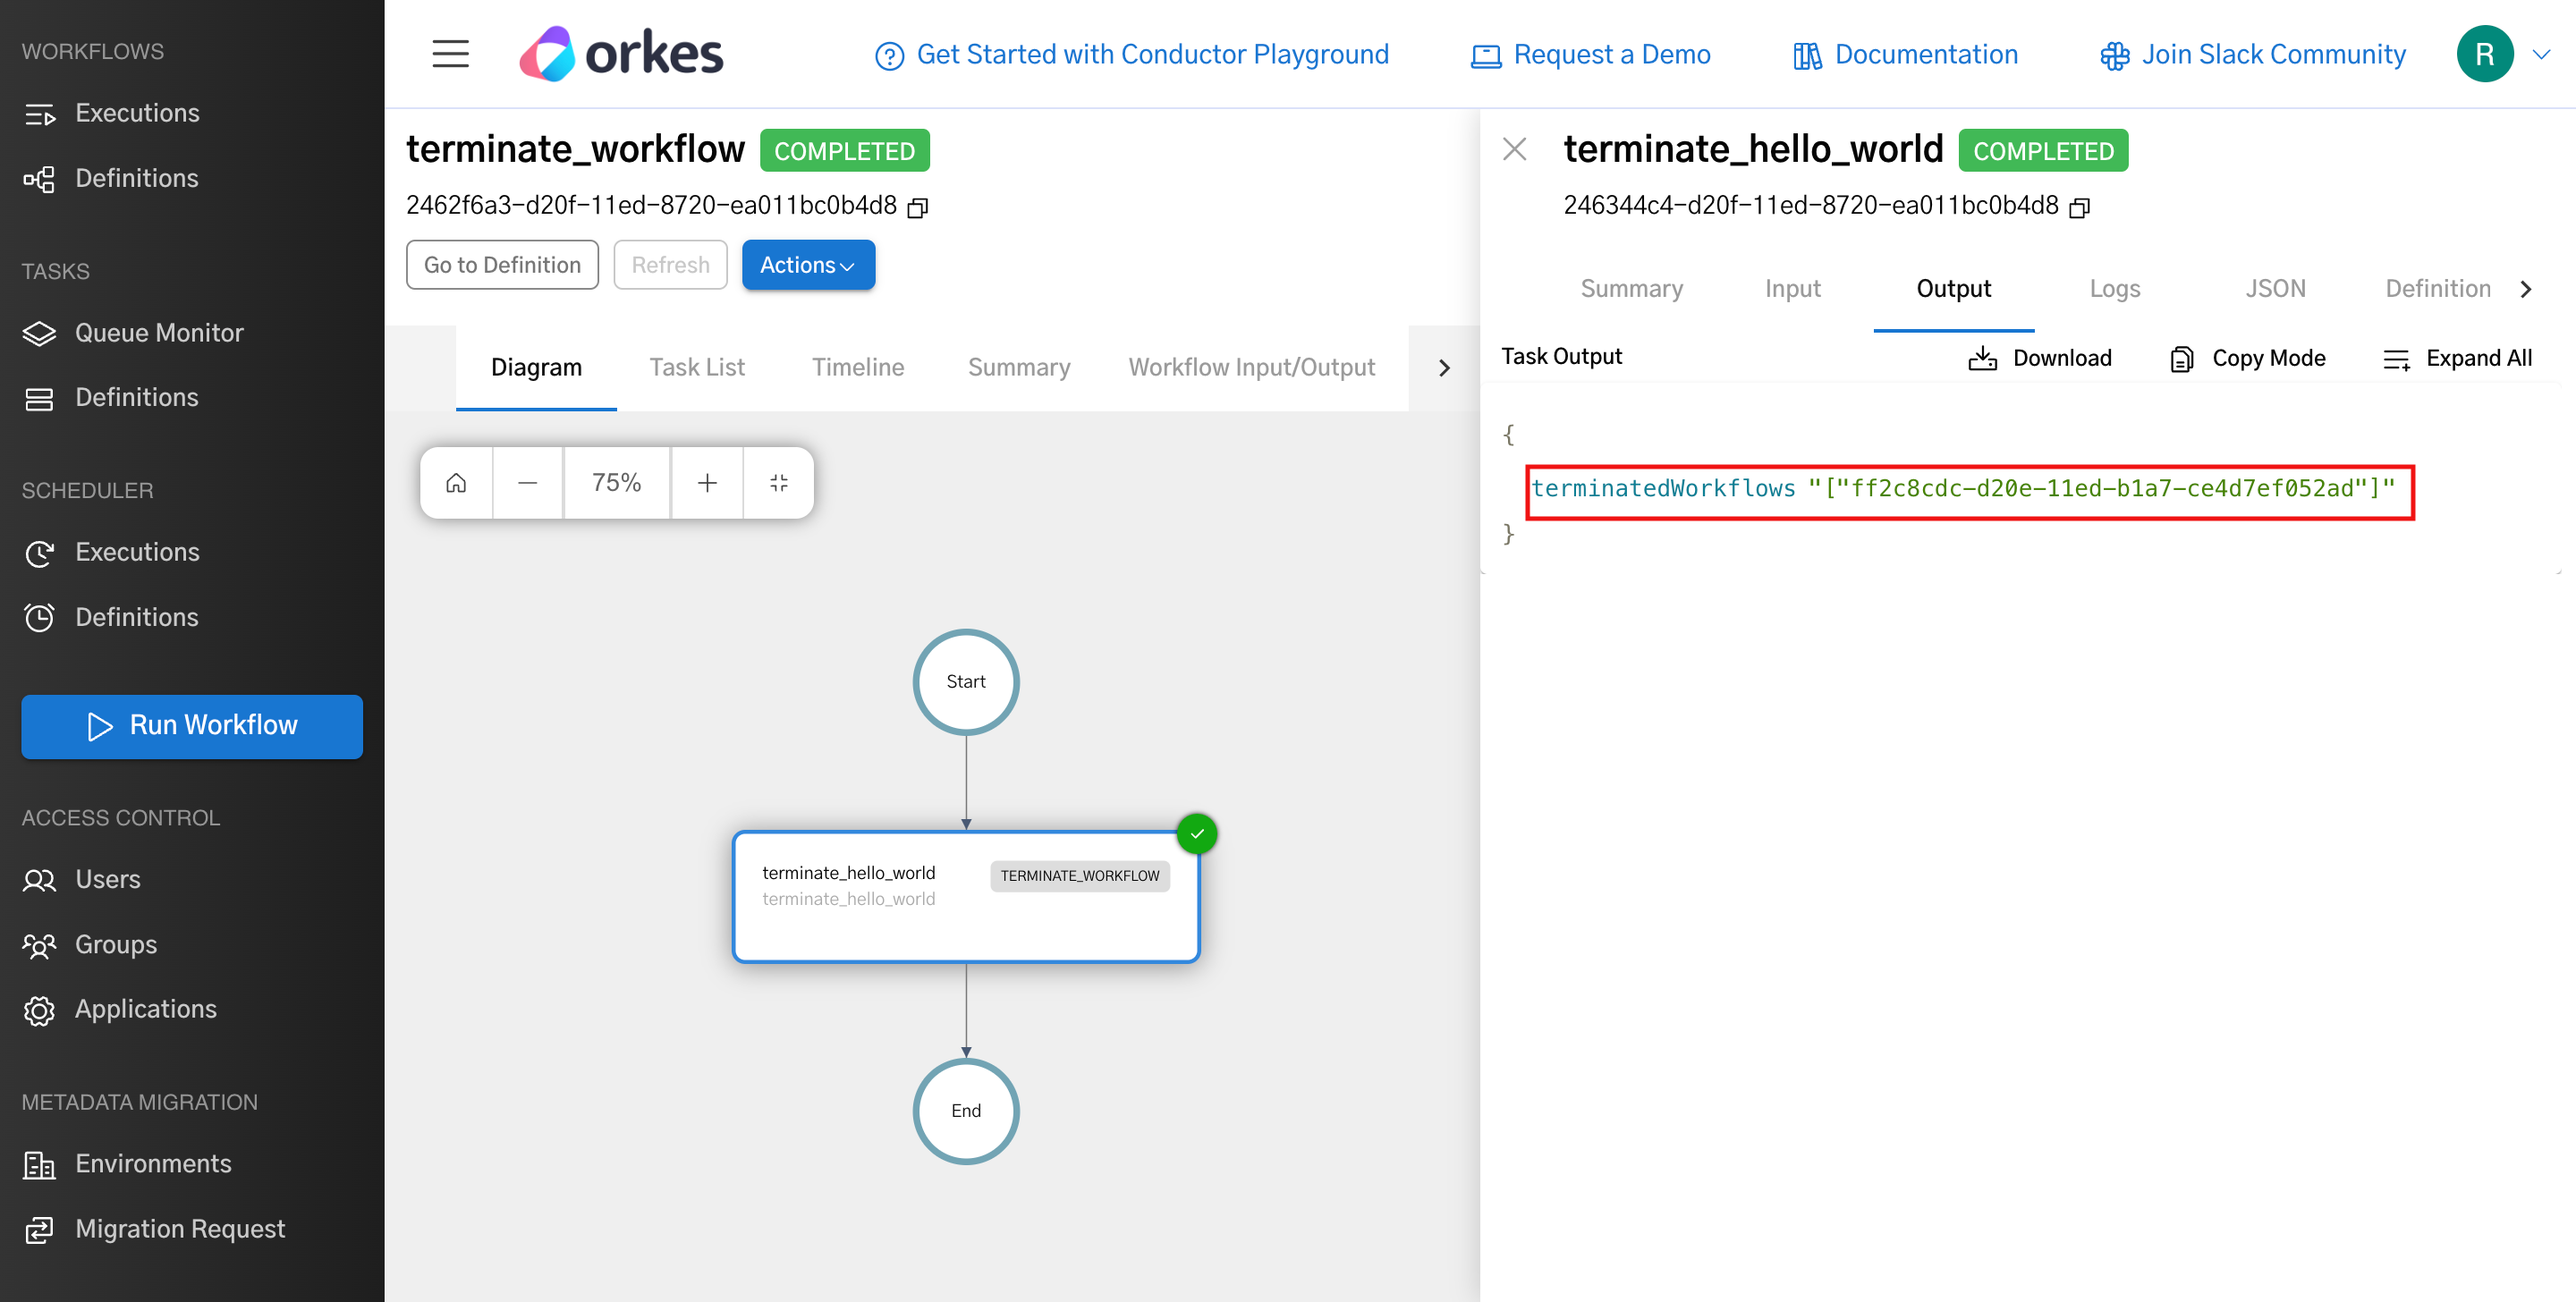
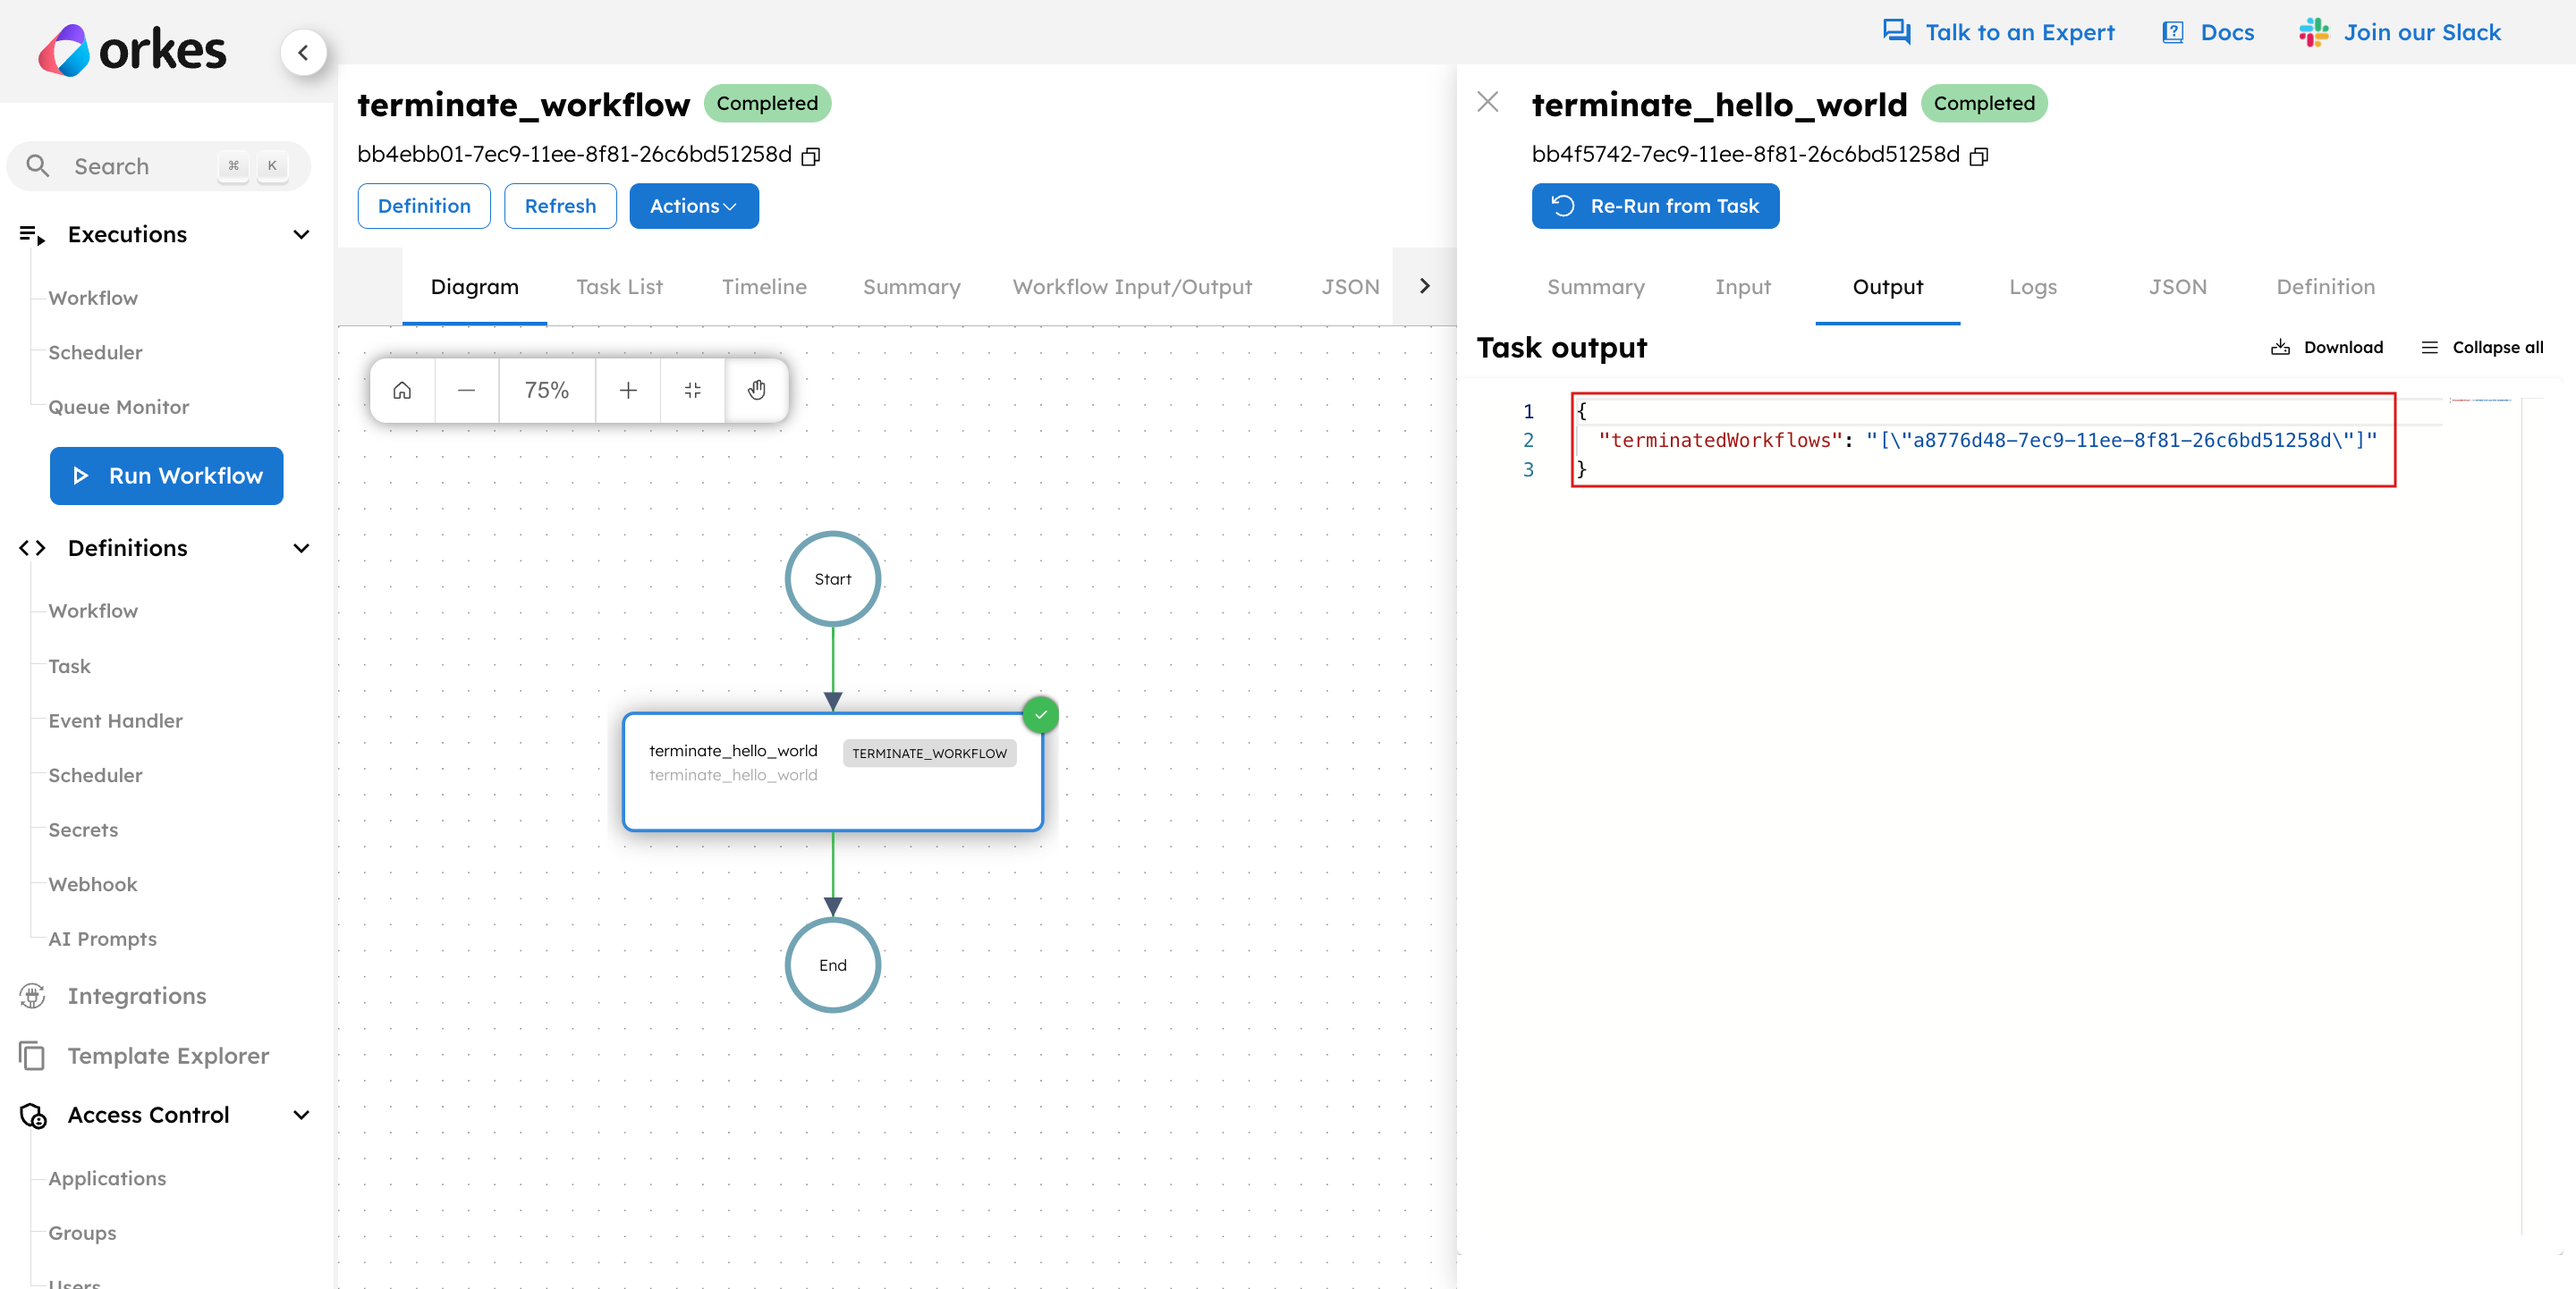
terminate workflow

diff --git a/docs/reference-docs/operators/terminate-workflow.md b/docs/reference-docs/operators/terminate-workflow.md
@@ -89,23 +89,21 @@ Suppose another running workflow is to be terminated; we can create a workflow w
 A sample workflow may look like this:
 ```json
     {
-      "name": "terminate_workflow",
-      "description": "Edit or extend this sample workflow. Set the workflow name to get started",
-      "version": 1,
-      "tasks": [
-        {
-          "name": "terminate_hello_world",
-          "taskReferenceName": "terminate_hello_world",
-          "inputParameters": {
-            "workflowId": "ff2c8cdc-d20e-11ed-b1a7-ce4d7ef052ad"
-          },
-          "type": "TERMINATE_WORKFLOW"
-        }
-      ],
-      "schemaVersion": 2,
-      "ownerEmail": "user@orkes.io",
-      "timeoutPolicy": "ALERT_ONLY"
+  "name": "terminate_workflow",
+  "description": "Edit or extend this sample workflow. Set the workflow name to get started",
+  "version": 1,
+  "tasks": [
+    {
+      "name": "terminate_hello_world",
+      "taskReferenceName": "terminate_hello_world",
+      "inputParameters": {
+        "workflowId": "a8776d48-7ec9-11ee-8f81-26c6bd51258d"
+      },
+      "type": "TERMINATE_WORKFLOW"
     }
+  ],
+  "ownerEmail": "riza.farheen@orkes.io"
+}
 ```
 If we run this workflow, the workflow with the mentioned workflowId gets terminated, and we can get the terminatedWorkflowIds from the execution page.
 
